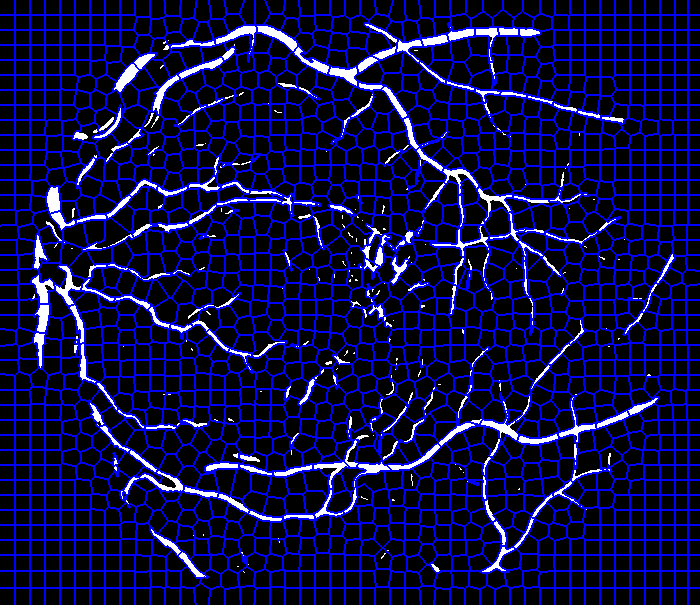
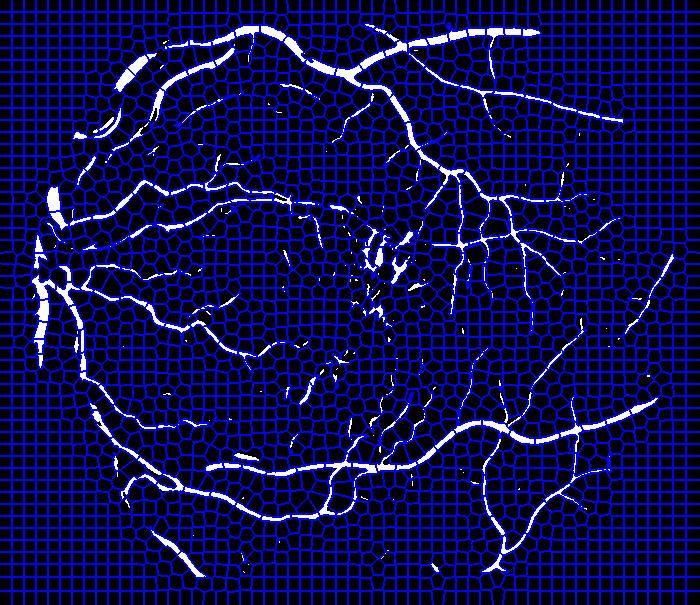
del unnecessary

diff --git a/code/utils.py b/code/utils.py
@@ -44,7 +44,7 @@ class GraphedImage():
         self.certain_pred, self.uncertain_pred = \
             self.binarize(self, method = 'otsu', hard_threshold = 0.5, save = True)         
         self.slic_label, self.boundaries = \
-            self.get_slic(self, N_pieces = 2000 ,save = True)
+            self.get_slic(self, N_pieces = 3000 ,save = True)
         self.piece_list = self.register_pieces(self, cut_value = 0.1, debug = True)
         self.N_pieces = len(self.piece_list)
         
@@ -53,7 +53,7 @@ class GraphedImage():
         self.node_list = self.kind1_list + self.kind2_list
         self.add_nodes(self)
         self.add_edges(self, narrow = 200, method = 'shortest', \
-                       threshold = 200, N_link = 2) 
+                       threshold = 200, N_link = 3) 
         iso_nodes = nx.isolates(self.graph)
         self.graph.remove_nodes_from(list(iso_nodes)) 
         
@@ -229,7 +229,6 @@ def add_edges(self, narrow : int, method : str, threshold : float, N_link : int)
             targets = mean_geo_dists[:n_link]
             edges = [(label, target[0]) for target in targets]
             self.graph.add_edges_from(edges)
-            print(f'{len(edges)} are added for node {label}')
             #print(f'edge btw {label} and {target} by {target_dist : .3e} {max_dist:.3e}' )
             
     elif method == 'threshold':
@@ -294,7 +293,7 @@ def visualize_graph(self, show_graph=True, save_graph=True, \
     plt.axis((0,700,605,0))
     pos = {}
     node_list = list(graph.nodes)
-    print(node_list)
+
     for i in node_list:
         pos[i] = [graph.nodes[i]['x'], graph.nodes[i]['y']]
     
@@ -319,22 +318,22 @@ def visualize_graph(self, show_graph=True, save_graph=True, \
     plt.clf()
     plt.close()           
     
-if __name__ == '__main__':
+# if __name__ == '__main__':
     
-    tmp_dir_for_demo = '/home/jiu7/Downloads/LadderNet-master/STARE_results/im0001.png'
-    whole_img = io.imread(tmp_dir_for_demo)
-    gt, pred = whole_img[605:605*2, :], whole_img[605*2:, :]
-    del whole_img
+#     tmp_dir_for_demo = '/home/jiu7/Downloads/LadderNet-master/STARE_results/im0001.png'
+#     whole_img = io.imread(tmp_dir_for_demo)
+#     gt, pred = whole_img[605:605*2, :], whole_img[605*2:, :]
+#     del whole_img
 
-    graphedpred = GraphedImage(pred)
-    piece_list = graphedpred.piece_list
-    a = graphedpred.graph
-    # print(a)
-    # print(list(a.nodes))
-    graphedpred.draw_graph()
-    # to_draw_list = graphedpred.kind2_list
-    graphedpred.mark_some_nodes(297)
-    # graphedpred.draw_graph()
+#     graphedpred = GraphedImage(pred)
+#     piece_list = graphedpred.piece_list
+#     a = graphedpred.graph
+#     # print(a)
+#     # print(list(a.nodes))
+#     graphedpred.draw_graph()
+#     # to_draw_list = graphedpred.kind2_list
+#     graphedpred.mark_some_nodes(297)
+#     # graphedpred.draw_graph()
     
     
     
